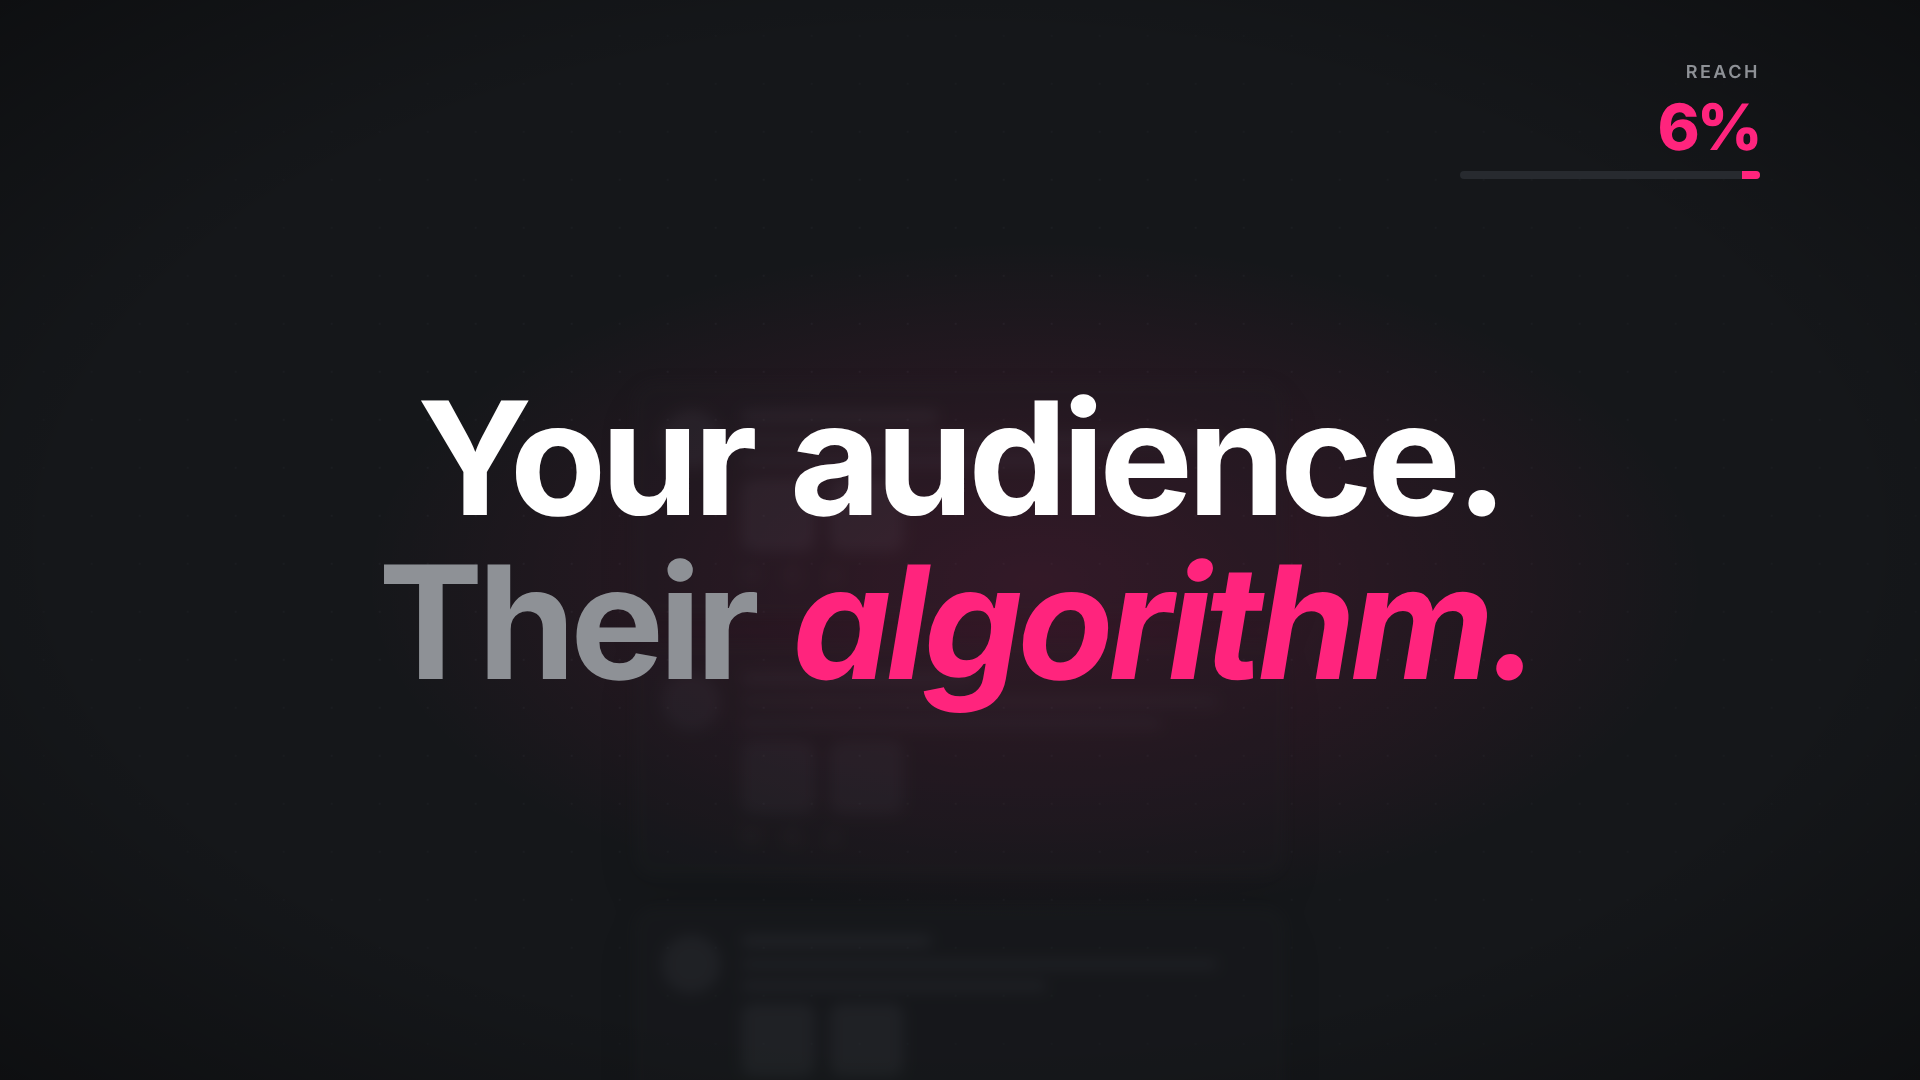
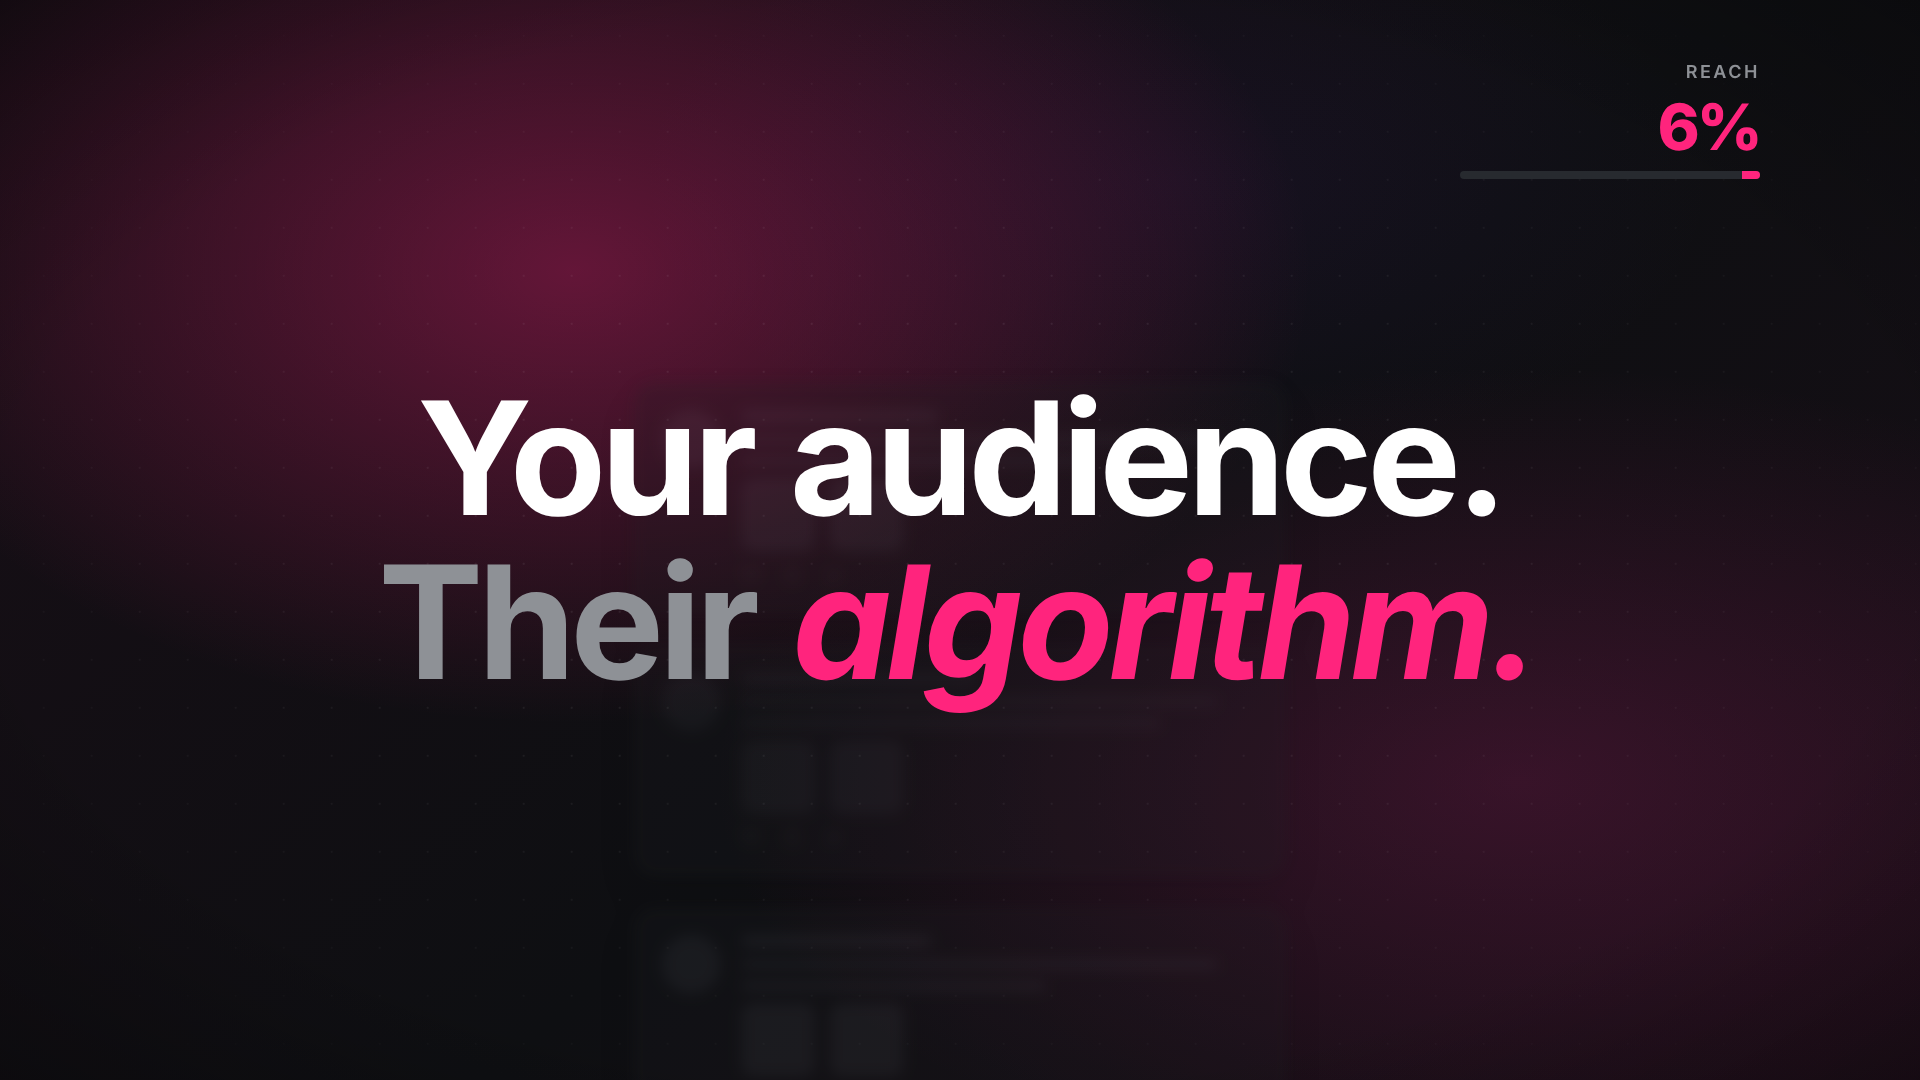
Animated gradient background in Ghost colours
Pink/magenta fields in the problem scenes shift to purple with a hint of
lime once Ghost appears; driven by a global frame clock so it is
continuous across cuts.

Claude-Session: https://claude.ai/code/session_01Bj9t4gh9dBD7VUE8NbaYEj

Changed region(s): [[0.0312, 0.0, 0.5938, 0.5194], [0.7188, 0.6417, 0.9375, 0.8556], [0.5, 0.55, 0.5625, 0.6111]]

diff --git a/ghost-launch/src/components/Stage.tsx b/ghost-launch/src/components/Stage.tsx
@@ -21,27 +21,45 @@ export const Camera: React.FC<{ f: number; scale?: number; x?: number; y?: numbe
   </AbsoluteFill>
 );
 
-/** Charcoal ground with a slow pink glow and a parallax dot grid. warm: 0 (tense, cool) → 1 (warm). */
+const mix = (a: number[], b: number[], t: number) => a.map((v, k) => Math.round(v + (b[k] - v) * t));
+const rgba = (c: number[], a: number) => `rgba(${c[0]},${c[1]},${c[2]},${a})`;
+
+/**
+ * Animated gradient ground in Ghost colors. warm: 0 = problem (pink/magenta, tense), 1 = Ghost (purple + lime).
+ * Three soft colour fields drift slowly over a dark diagonal base, so nothing ever fully stops.
+ */
 export const Background: React.FC<{ f: number; warm?: number; parallax?: number }> = ({ f, warm = 0, parallax = 0 }) => {
+  const w = Math.max(0, Math.min(1, warm));
+  const base1 = mix([24, 14, 22], [16, 14, 32], w); // deep wine → deep indigo
+  const base2 = mix([14, 15, 18], [12, 14, 22], w);
+  const blobA = mix([255, 36, 125], [142, 66, 255], w); // pink → purple
+  const blobB = mix([142, 30, 90], [255, 36, 125], w); // magenta → pink
+  const blobC = mix([90, 40, 160], [209, 255, 25], w); // violet → lime
+  const ax = 22 + drift(f, 8, 900), ay = 20 + drift(f, 6, 1100, 1);
+  const bx = 80 + drift(f, 7, 1000, 2), by = 78 + drift(f, 6, 950, 3);
+  const cx = 70 + drift(f, 9, 1300, 4), cy = 18 + drift(f, 5, 1200, 5);
   const gx = drift(f, 20, 900) - parallax * 0.15;
   const gy = drift(f, 14, 1100, 1);
   return (
-    <AbsoluteFill style={{ background: COLORS.bg, overflow: "hidden" }}>
+    <AbsoluteFill style={{ background: `linear-gradient(${135 + drift(f, 6, 1400)}deg, ${rgba(base1, 1)} 0%, ${rgba(base2, 1)} 55%, ${rgba(base1, 1)} 100%)`, overflow: "hidden" }}>
       <AbsoluteFill
         style={{
-          backgroundImage: `radial-gradient(${COLORS.line} 1.2px, transparent 1.2px)`,
+          background: [
+            `radial-gradient(ellipse 55% 60% at ${ax}% ${ay}%, ${rgba(blobA, 0.34)}, transparent 70%)`,
+            `radial-gradient(ellipse 60% 55% at ${bx}% ${by}%, ${rgba(blobB, 0.3)}, transparent 70%)`,
+            `radial-gradient(ellipse 40% 38% at ${cx}% ${cy}%, ${rgba(blobC, 0.1 + 0.06 * w)}, transparent 70%)`,
+          ].join(", "),
+        }}
+      />
+      <AbsoluteFill
+        style={{
+          backgroundImage: `radial-gradient(rgba(255,255,255,0.07) 1.2px, transparent 1.2px)`,
           backgroundSize: "48px 48px",
           backgroundPosition: `${gx}px ${gy}px`,
-          opacity: 0.35,
           maskImage: "radial-gradient(ellipse 70% 70% at 50% 50%, black 30%, transparent 100%)",
         }}
       />
-      <AbsoluteFill
-        style={{
-          background: `radial-gradient(ellipse 50% 45% at ${50 + drift(f, 4, 700)}% ${55 + drift(f, 3, 800, 2)}%, rgba(${warm > 0.5 ? "142,66,255" : "255,36,125"},${0.06 + 0.1 * Math.abs(warm - 0.5) * 2}), transparent 70%)`,
-        }}
-      />
-      <AbsoluteFill style={{ background: "radial-gradient(ellipse 85% 85% at 50% 50%, transparent 55%, rgba(0,0,0,0.55) 100%)" }} />
+      <AbsoluteFill style={{ background: "radial-gradient(ellipse 90% 90% at 50% 50%, transparent 55%, rgba(0,0,0,0.5) 100%)" }} />
     </AbsoluteFill>
   );
 };

diff --git a/ghost-launch/src/scenes/S2Problem.tsx b/ghost-launch/src/scenes/S2Problem.tsx
@@ -55,7 +55,7 @@ export const S2Problem: React.FC = () => {
 
   return (
     <AbsoluteFill>
-      <Background f={f} warm={0} parallax={x} />
+      <Background f={f + 240} warm={0} parallax={x} />
       <Camera f={f} scale={s} x={x} push={0.00008}>
         {/* tangled lines between tools */}
         <svg width={3200} height={1400} viewBox="-1600 -700 3200 1400" style={{ position: "absolute", left: "50%", top: "50%", marginLeft: -1600, marginTop: -700, opacity: stress * 0.9 }}>

diff --git a/ghost-launch/src/scenes/S4Payoff.tsx b/ghost-launch/src/scenes/S4Payoff.tsx
@@ -19,7 +19,7 @@ export const S4Payoff: React.FC = () => {
   const hold = 1 + 0.02 * tw(f, 0, 360, 0, 1, (t) => t); // slow drift 1 → 1.02
   return (
     <AbsoluteFill>
-      <Background f={f + 480} warm={1} />
+      <Background f={f + 1140} warm={1} />
       <Camera f={f} scale={camS} x={camX} y={camY} push={0.00004}>
         <At y={DB_Y}>
           <div style={{ opacity: inA, transform: `scale(${DB_SCALE * hold})` }}>

diff --git a/ghost-launch/src/scenes/S5Cta.tsx b/ghost-launch/src/scenes/S5Cta.tsx
@@ -20,7 +20,7 @@ export const S5Cta: React.FC = () => {
   const glow = tw(f, PRESS, PRESS + 30, 0, 1);
   return (
     <AbsoluteFill>
-      <Background f={f + 840} warm={1} />
+      <Background f={f + 1500} warm={1} />
       {dbOut < 1 && (
         <At y={DB_Y}>
           <div style={{ opacity: 1 - dbOut, transform: `scale(${DB_SCALE * 1.02 * (1 - 0.18 * dbOut)})`, filter: `blur(${dbOut * 8}px)` }}>

diff --git a/ghost-launch/src/scenes/S3Fix.tsx b/ghost-launch/src/scenes/S3Fix.tsx
@@ -48,7 +48,7 @@ export const S3Fix: React.FC = () => {
 
   return (
     <AbsoluteFill>
-      <Background f={f} warm={tw(f, 30, 120, 0.2, 1)} />
+      <Background f={f + 660} warm={tw(f, 20, 120, 0, 1)} />
       <Camera f={f} scale={camS} x={camX} y={camY} push={0.00006}>
         {winsOut > 0 && TOOL_X.map((tx, i) => {
           const j = jitter(f, i, 1 - m);
